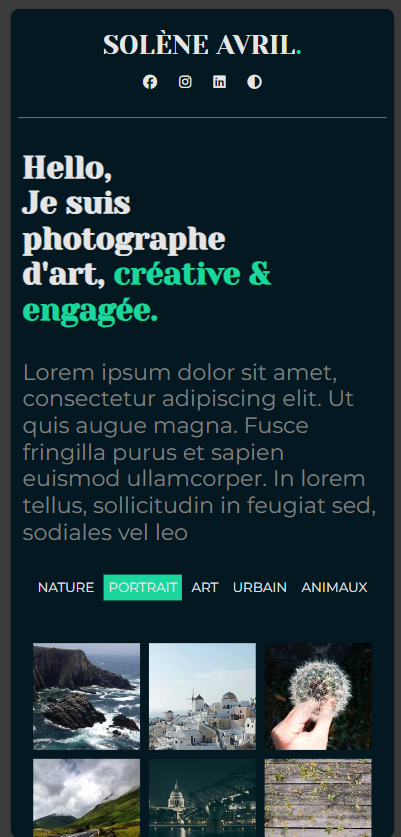
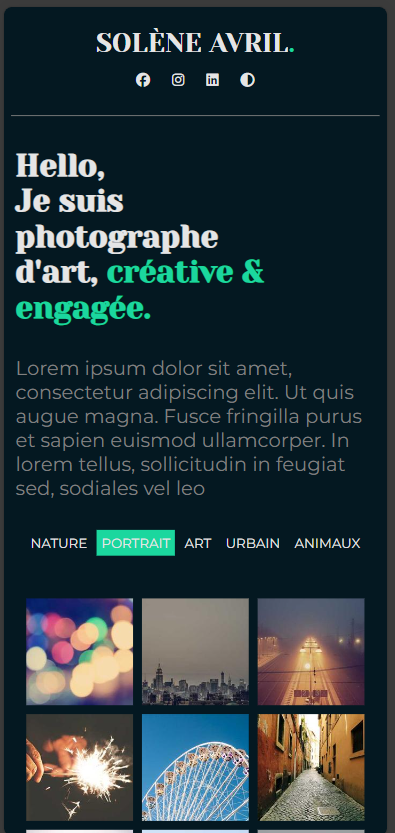
Final commit3

diff --git a/Styles/responsive.css b/Styles/responsive.css
@@ -74,7 +74,7 @@
     }
     .intro {
         padding-right: 0%;
-        font-size: 25px;
+        font-size: 22px;
     }
     .lien_actif {
         font-size: 15px;
